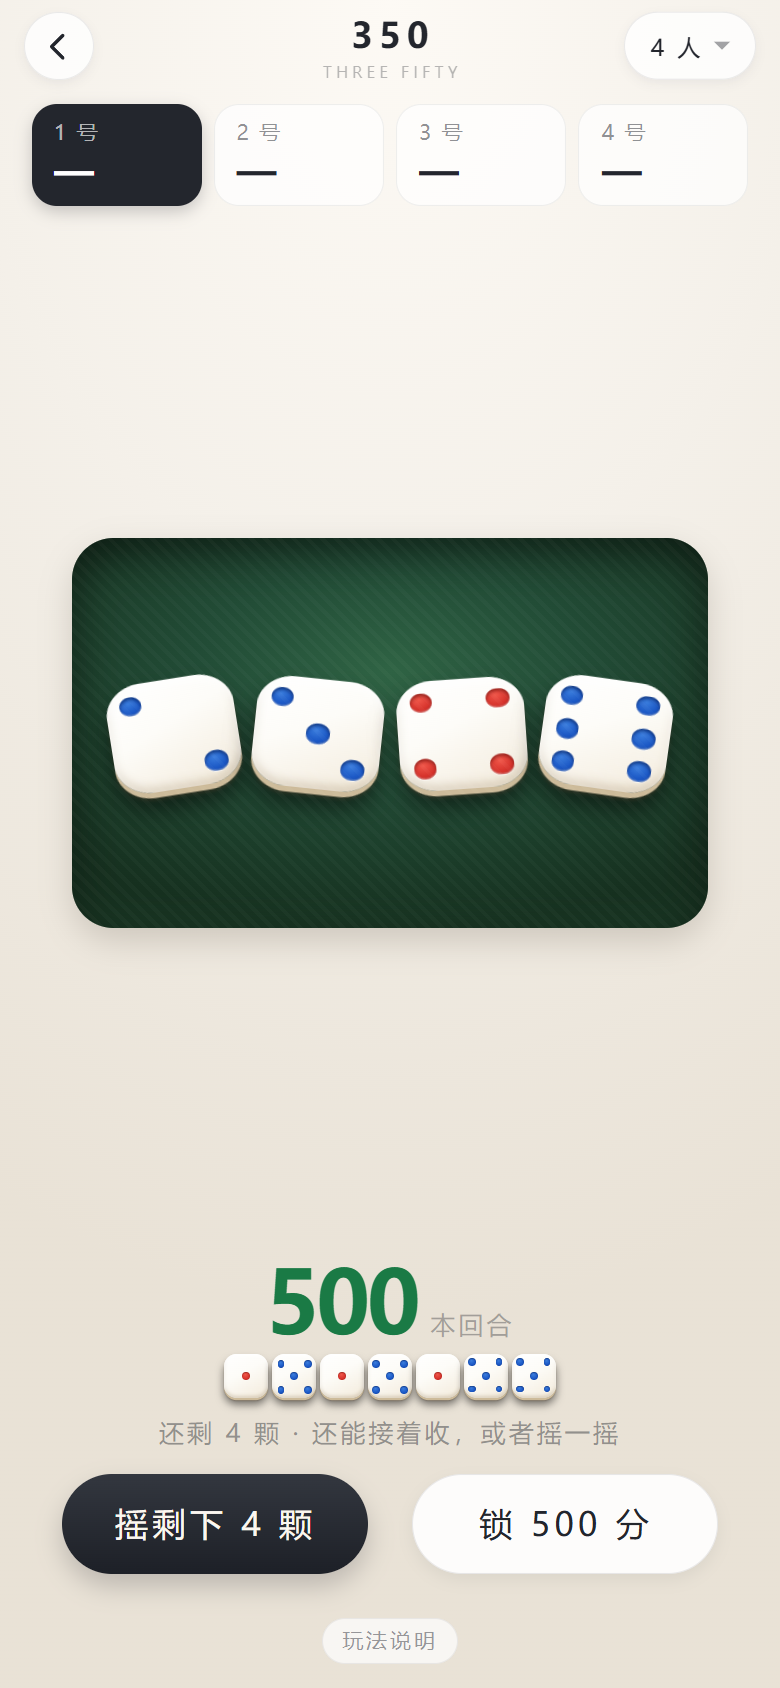
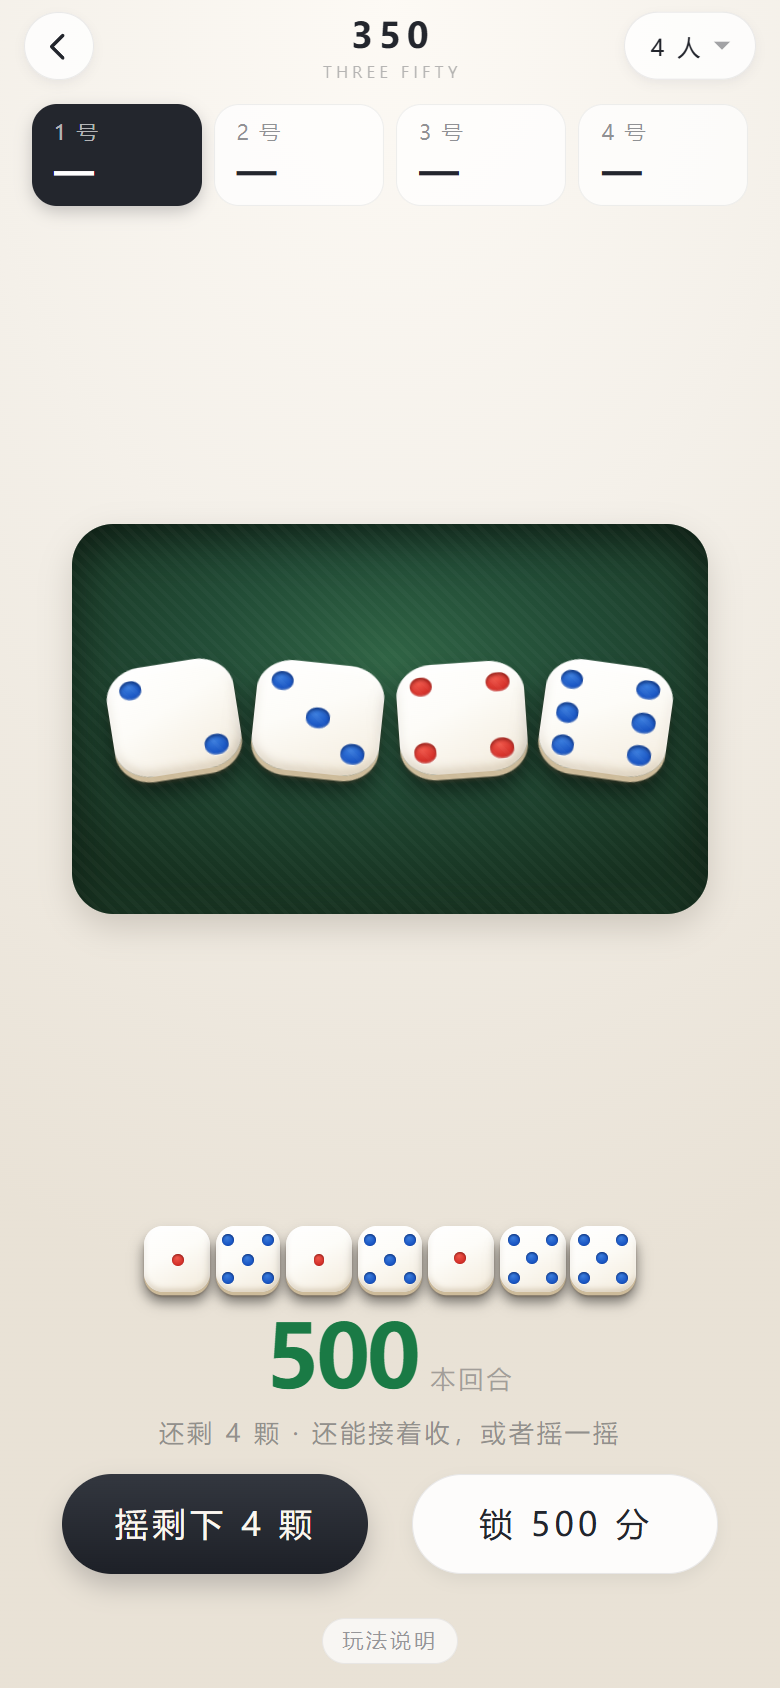
chore: sync

diff --git a/app/src/clean/assets/www/index.html b/app/src/clean/assets/www/index.html
@@ -63,7 +63,7 @@
 
     <div class="home-tip" id="homeTip"></div>
 
-    <div class="home-foot" id="homeVer">v1.10.4 · 仅供朋友聚会娱乐</div>
+    <div class="home-foot" id="homeVer">v1.10.5 · 仅供朋友聚会娱乐</div>
   </div>
 </div>
 
@@ -179,7 +179,7 @@
     <div class="hint" id="hint">点「摇一摇」开始这一局</div>
     <div class="btn-row" id="btnRow"></div>
     <div class="foot">
-      <span>v1.10.4</span>
+      <span>v1.10.5</span>
       <button class="mode-link" id="ruleBtn">玩法说明</button>
     </div>
   </div>
@@ -220,12 +220,12 @@
 
   <!-- 本回合分数 -->
   <div class="f3-panel">
+    <!-- 这一回合已经收下的骰子：摆在桌子和分数之间那块空当里，分数就是它们加出来的 -->
+    <div class="f3-taken" id="f3Taken" hidden></div>
     <div class="f3-score" id="f3ScoreBox">
       <span class="f3-score-num" id="f3ScoreNum">0</span>
       <span class="f3-score-unit">本回合</span>
     </div>
-    <!-- 这一回合已经收下的骰子：分数是它们加起来的结果 -->
-    <div class="f3-taken" id="f3Taken" hidden></div>
     <div class="f3-hint" id="f3Hint">满 350 才能收手 · 封顶 700</div>
   </div>
 

diff --git a/app/src/full/assets/www/index.html b/app/src/full/assets/www/index.html
@@ -63,7 +63,7 @@
 
     <div class="home-tip" id="homeTip"></div>
 
-    <div class="home-foot" id="homeVer">v1.10.4 · 仅供朋友聚会娱乐</div>
+    <div class="home-foot" id="homeVer">v1.10.5 · 仅供朋友聚会娱乐</div>
   </div>
 </div>
 
@@ -179,7 +179,7 @@
     <div class="hint" id="hint">点「摇一摇」开始这一局</div>
     <div class="btn-row" id="btnRow"></div>
     <div class="foot">
-      <span>v1.10.4</span>
+      <span>v1.10.5</span>
       <button class="mode-link" id="ruleBtn">玩法说明</button>
     </div>
   </div>
@@ -269,12 +269,12 @@
 
   <!-- 本回合分数 -->
   <div class="f3-panel">
+    <!-- 这一回合已经收下的骰子：摆在桌子和分数之间那块空当里，分数就是它们加出来的 -->
+    <div class="f3-taken" id="f3Taken" hidden></div>
     <div class="f3-score" id="f3ScoreBox">
       <span class="f3-score-num" id="f3ScoreNum">0</span>
       <span class="f3-score-unit">本回合</span>
     </div>
-    <!-- 这一回合已经收下的骰子：分数是它们加起来的结果 -->
-    <div class="f3-taken" id="f3Taken" hidden></div>
     <div class="f3-hint" id="f3Hint">满 350 才能收手 · 封顶 700</div>
   </div>
 

diff --git a/app/src/clean/assets/www/f350.css b/app/src/clean/assets/www/f350.css
@@ -235,22 +235,23 @@
 
 /* ---------------- 收下的骰子 ---------------- */
 
-/* 分数下面那一排：这一回合已经被拿走的 1 和 5，按收的先后排 */
+/* 桌子和分数之间那一排：这一回合已经被拿走的 1 和 5，按收的先后排。
+   那块本来就是空当（stage 是 flex:1，桌子固定 50vw 居中），摆这儿不占额外地方，
+   骰子还能比贴在分数下面时大一号；尺寸由 f350.js 按颗数算（--ds）。 */
 .f3-taken {
+  --ds: 8.4vw;
   display: flex;
   flex-wrap: wrap;
   align-items: center;
   justify-content: center;
-  /* 0.55 而不是 0.8：封顶那一下最多 14 颗（700 / 每颗最少 50），
-     间距小一点才能在 88vw 里排成一整行，不至于孤零零掉下来一颗 */
-  gap: 0.55vw;
-  margin-top: 1.3333vw;
+  gap: 0.7vw;
+  /* 和下面的大数字留一口气，别贴上去 */
+  margin: 0 0 2.4vw;
 }
 /* hidden 属性得自己兜一下：上面那句 display:flex 会盖掉浏览器默认的 display:none */
 .f3-taken[hidden] { display: none; }
 
 .f3-taken .tk-die {
-  --ds: 5.6vw;
   flex: 0 0 auto;
   width: var(--ds);
   height: var(--ds);

diff --git a/app/src/full/assets/www/f350.css b/app/src/full/assets/www/f350.css
@@ -235,22 +235,23 @@
 
 /* ---------------- 收下的骰子 ---------------- */
 
-/* 分数下面那一排：这一回合已经被拿走的 1 和 5，按收的先后排 */
+/* 桌子和分数之间那一排：这一回合已经被拿走的 1 和 5，按收的先后排。
+   那块本来就是空当（stage 是 flex:1，桌子固定 50vw 居中），摆这儿不占额外地方，
+   骰子还能比贴在分数下面时大一号；尺寸由 f350.js 按颗数算（--ds）。 */
 .f3-taken {
+  --ds: 8.4vw;
   display: flex;
   flex-wrap: wrap;
   align-items: center;
   justify-content: center;
-  /* 0.55 而不是 0.8：封顶那一下最多 14 颗（700 / 每颗最少 50），
-     间距小一点才能在 88vw 里排成一整行，不至于孤零零掉下来一颗 */
-  gap: 0.55vw;
-  margin-top: 1.3333vw;
+  gap: 0.7vw;
+  /* 和下面的大数字留一口气，别贴上去 */
+  margin: 0 0 2.4vw;
 }
 /* hidden 属性得自己兜一下：上面那句 display:flex 会盖掉浏览器默认的 display:none */
 .f3-taken[hidden] { display: none; }
 
 .f3-taken .tk-die {
-  --ds: 5.6vw;
   flex: 0 0 auto;
   width: var(--ds);
   height: var(--ds);

diff --git a/app/src/clean/assets/www/f350.js b/app/src/clean/assets/www/f350.js
@@ -498,6 +498,15 @@
     var key = list.length + '/' + G.round;
     if (box.getAttribute('data-key') === key) return;
 
+    /* 大小跟着颗数走：平时 8.4vw（比贴在分数下面时大一半），
+       颗数多到一行放不下就等比缩 —— 反正就是要一行排完，
+       掉一颗去第二行最难看。88vw 是面板可用宽度（左右各 6vw 内边距），
+       0.7 是下面 CSS 里的 gap。 */
+    var n = list.length;
+    var ds = n ? (88 - (n - 1) * 0.7) / n : 8.4;
+    ds = Math.min(8.4, Math.max(5.4, ds));
+    box.style.setProperty('--ds', ds.toFixed(3) + 'vw');
+
     var prev = parseInt(box.getAttribute('data-n') || '0', 10);
     box.innerHTML = '';
     for (var i = 0; i < list.length; i++) {

diff --git a/app/src/full/assets/www/f350.js b/app/src/full/assets/www/f350.js
@@ -498,6 +498,15 @@
     var key = list.length + '/' + G.round;
     if (box.getAttribute('data-key') === key) return;
 
+    /* 大小跟着颗数走：平时 8.4vw（比贴在分数下面时大一半），
+       颗数多到一行放不下就等比缩 —— 反正就是要一行排完，
+       掉一颗去第二行最难看。88vw 是面板可用宽度（左右各 6vw 内边距），
+       0.7 是下面 CSS 里的 gap。 */
+    var n = list.length;
+    var ds = n ? (88 - (n - 1) * 0.7) / n : 8.4;
+    ds = Math.min(8.4, Math.max(5.4, ds));
+    box.style.setProperty('--ds', ds.toFixed(3) + 'vw');
+
     var prev = parseInt(box.getAttribute('data-n') || '0', 10);
     box.innerHTML = '';
     for (var i = 0; i < list.length; i++) {

diff --git a/app/src/clean/assets/www/sw.js b/app/src/clean/assets/www/sw.js
@@ -1,5 +1,5 @@
 /* 离线缓存：装到桌面后断网也能玩 */
-var CACHE = 'liars-dice-clean-v30';
+var CACHE = 'liars-dice-clean-v31';
 var FILES = [
   './',
   './index.html',

diff --git a/app/src/full/assets/www/sw.js b/app/src/full/assets/www/sw.js
@@ -1,5 +1,5 @@
 /* 离线缓存：装到桌面后断网也能玩 */
-var CACHE = 'liars-dice-v30';
+var CACHE = 'liars-dice-v31';
 var FILES = [
   './',
   './index.html',

diff --git a/README.md b/README.md
@@ -228,23 +228,26 @@ APK 里的 `assets/www` 是从仓库外的两个源码目录同步来的（`liar
 
 摇骰子有声音（复用吹牛那颗 `shake.mp3`），不用看着屏幕也知道摇了。
 
-### 收下的骰子摆在本回合分数下面
+### 收下的骰子摆在桌子和分数之间
 
 <p align="center">
-  <img src="docs/shots/f350-taken.png" width="29%" alt="本回合 500 分，分数下面那一排小骰子就是已经收走的 1 和 5">
+  <img src="docs/shots/f350-taken.png" width="29%" alt="桌面和「本回合」分数之间那一排骰子，就是这一回合已经收走的 1 和 5">
 </p>
 
 收分的时候那些 1 和 5 从桌上消失，只剩下一个往上跳的数字。一回合打完，
 谁也说不清这五百分是摇了几把、收了几个 1 几个 5 凑出来的。
 
-现在每收一颗，**分数下面多一颗小骰子**，按收的先后从左往右排开：
+现在每收一颗，**桌面和分数之间那块空当里就多一颗骰子**，按收的先后从左往右排开：
 
+- 那块空当本来就有（桌面固定高度居中，上下留白），摆进去不占额外地方，所以骰子能给得比较大：
+  7 颗的时候一颗 33px 左右，比原先塞在分数下面时大了一半
+- 颗数多了会按颗数等比缩：封顶 14 颗（700 分 ÷ 每颗最少 50 分）时缩到 22px，**永远排成一行**，
+  不会孤零零掉一颗到第二行
 - 只管本回合：换人、爆掉、豹子、重开，都跟着分数一起清掉
-- 收下的最多 14 颗（700 分 ÷ 每颗最少 50 分），一排正好排得下，骰子再多也不会把桌子挤小
 - 新收的那颗有个轻轻落下的小动画，一眼看出刚才是哪一颗进的分
 
-分数和骰子是两张对得上的账：上面的数字是下面这排骰子加出来的，
-点「收下 150 分」的时候，分数涨 150，下面也正好多出对应的骰子。
+分数和骰子是两张对得上的账：下面那行数字就是上面这排骰子加出来的，
+点「收下 150 分」的时候，分数涨 150，上面也正好多出对应的骰子。
 
 ## 玩法说明
 
